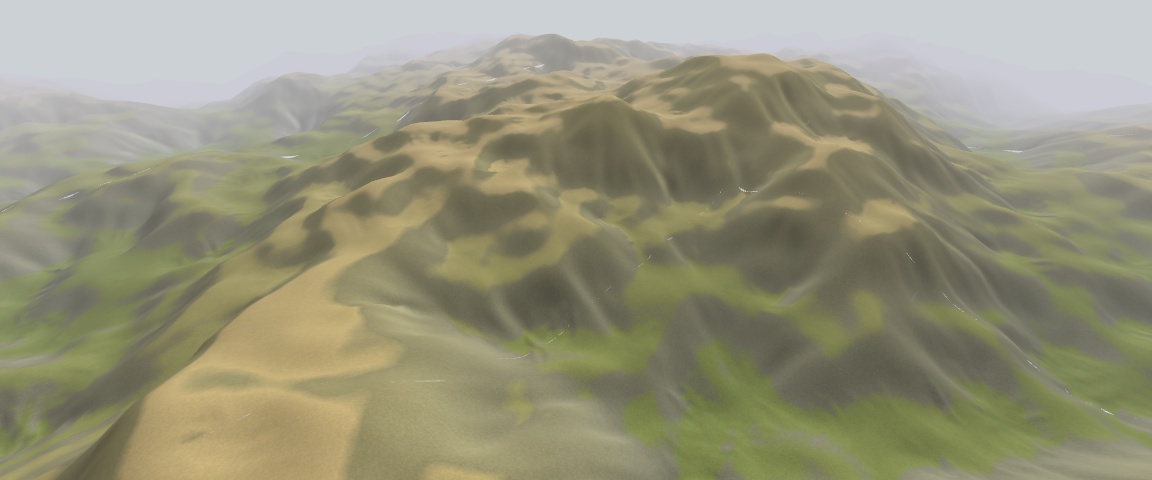
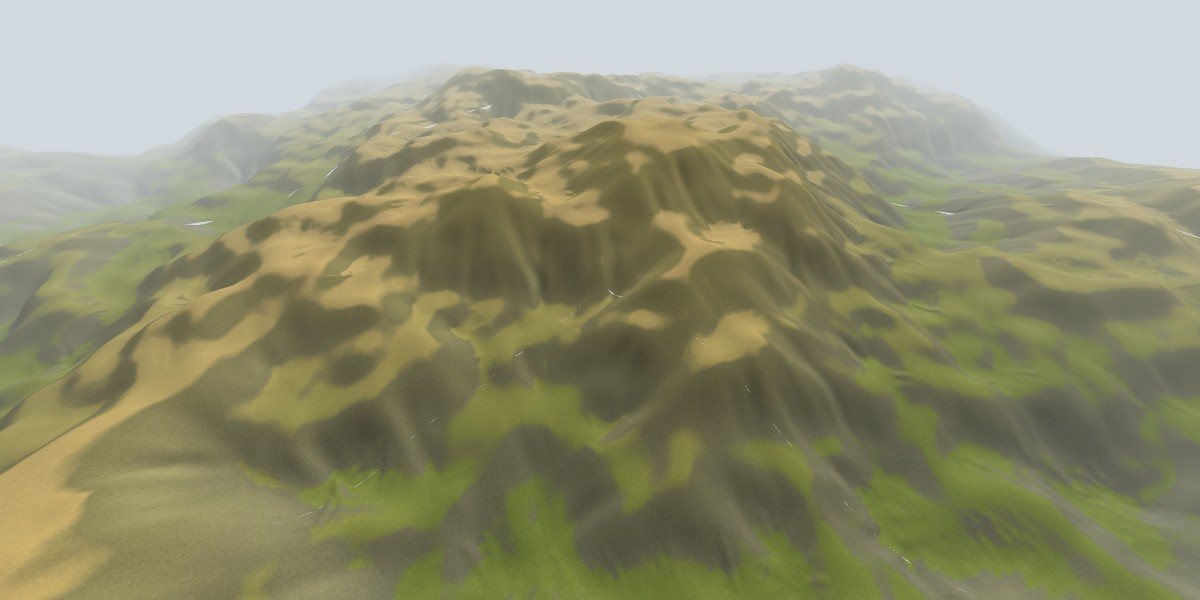
Functional screenshots (kinda)

diff --git a/source/engine/context.c b/source/engine/context.c
@@ -185,12 +185,13 @@ inline void ContextDelete(struct Context* context)
 -----------------------------*/
 void ContextUpdate(struct Context* context, struct ContextEvents* out_events)
 {
+	context->window_resized = false;
+	glfwPollEvents();
+
+	// Flip buffers *after* process the inputs callbacks, so
+	// if these takes time at least the screen didn't goes black
 	glfwSwapBuffers(context->window);
 	glClear(GL_COLOR_BUFFER_BIT | GL_DEPTH_BUFFER_BIT);
-
-	context->window_resized = false;
-
-	glfwPollEvents();
 
 	if (out_events != NULL)
 	{
@@ -374,4 +375,42 @@ inline void Draw(struct Context* context, const struct Index* index)
 inline struct Vector2i GetWindowSize(const struct Context* context)
 {
 	return context->window_size;
+}
+
+
+/*-----------------------------
+
+ TakeScreenshot()
+-----------------------------*/
+int TakeScreenshot(const struct Context* context, const char* filename, struct Status* st)
+{
+	struct Image* image = NULL;
+	GLenum error;
+
+	if ((image = ImageCreate(IMAGE_RGBA8, (size_t)context->window_size.x, (size_t)context->window_size.y)) == NULL)
+	{
+		StatusSet(st, "TakeScreenshot", STATUS_MEMORY_ERROR, NULL);
+		goto return_failure;
+	}
+
+	glReadPixels(0, 0, context->window_size.x, context->window_size.y, GL_RGBA, GL_UNSIGNED_BYTE, image->data);
+
+	if ((error = glGetError()) != GL_NO_ERROR)
+	{
+		// TODO, glReadPixels has tons of corners where it can fail.
+		StatusSet(st, "TakeScreenshot", STATUS_ERROR, NULL);
+		goto return_failure;
+	}
+
+	if ((ImageSaveSgi(image, filename, st)) != 0)
+		goto return_failure;
+
+	ImageDelete(image);
+	return 0;
+
+return_failure:
+	if (image != NULL)
+		ImageDelete(image);
+
+	return 1;
 }

diff --git a/source/game/nara.c b/source/game/nara.c
@@ -33,6 +33,7 @@ SOFTWARE.
 #include <stdio.h>
 #include <stdlib.h>
 #include <string.h>
+#include <time.h>
 
 #include "../engine/context.h"
 #include "../engine/entity.h"
@@ -195,7 +196,17 @@ static void sScreenshot(const struct Context* context, const struct ContextEvent
 	(void)events;
 
 	if (press == true)
-		printf("Haaiii!!!!\n");
+	{
+		char timestr[64] = {0};
+		char filename[64] = {0};
+
+		time_t t;
+		time(&t);
+
+		strftime(timestr, 64, "%Y-%m-%e, %H:%M:%S", localtime(&t));
+		sprintf(filename, "%s - %s (%lX).sgi", NAME_SHORT, timestr, s_timer.frame_number);
+		TakeScreenshot(context, filename, NULL);
+	}
 }
 
 int main(int argc, const char* argv[])
@@ -262,7 +273,7 @@ int main(int argc, const char* argv[])
 
 		EntityCreate(&s_entities, ClassGet(s_classes, "Point"));
 		camera = EntityCreate(&s_entities, ClassGet(s_classes, "Camera"));
-		camera->co.position = (struct Vector3){128.0f, 128.0f, 256.0f};
+		camera->co.position = (struct Vector3){700.0f, 700.0f, 256.0f};
 		camera->co.angle = (struct Vector3){-50.0f, 0.0f, 45.0f};
 
 		sSetProjection(s_context);

diff --git a/source/engine/context.h b/source/engine/context.h
@@ -93,6 +93,8 @@
 		default: SetCameraLookAt \
 	)(context, val, origin)
 
+	int TakeScreenshot(const struct Context* context, const char* filename, struct Status* st);
+
 	int ProgramInit(struct Program* out, const char* vertex_code, const char* fragment_code, struct Status* st);
 	void ProgramFree(struct Program* program);
 
